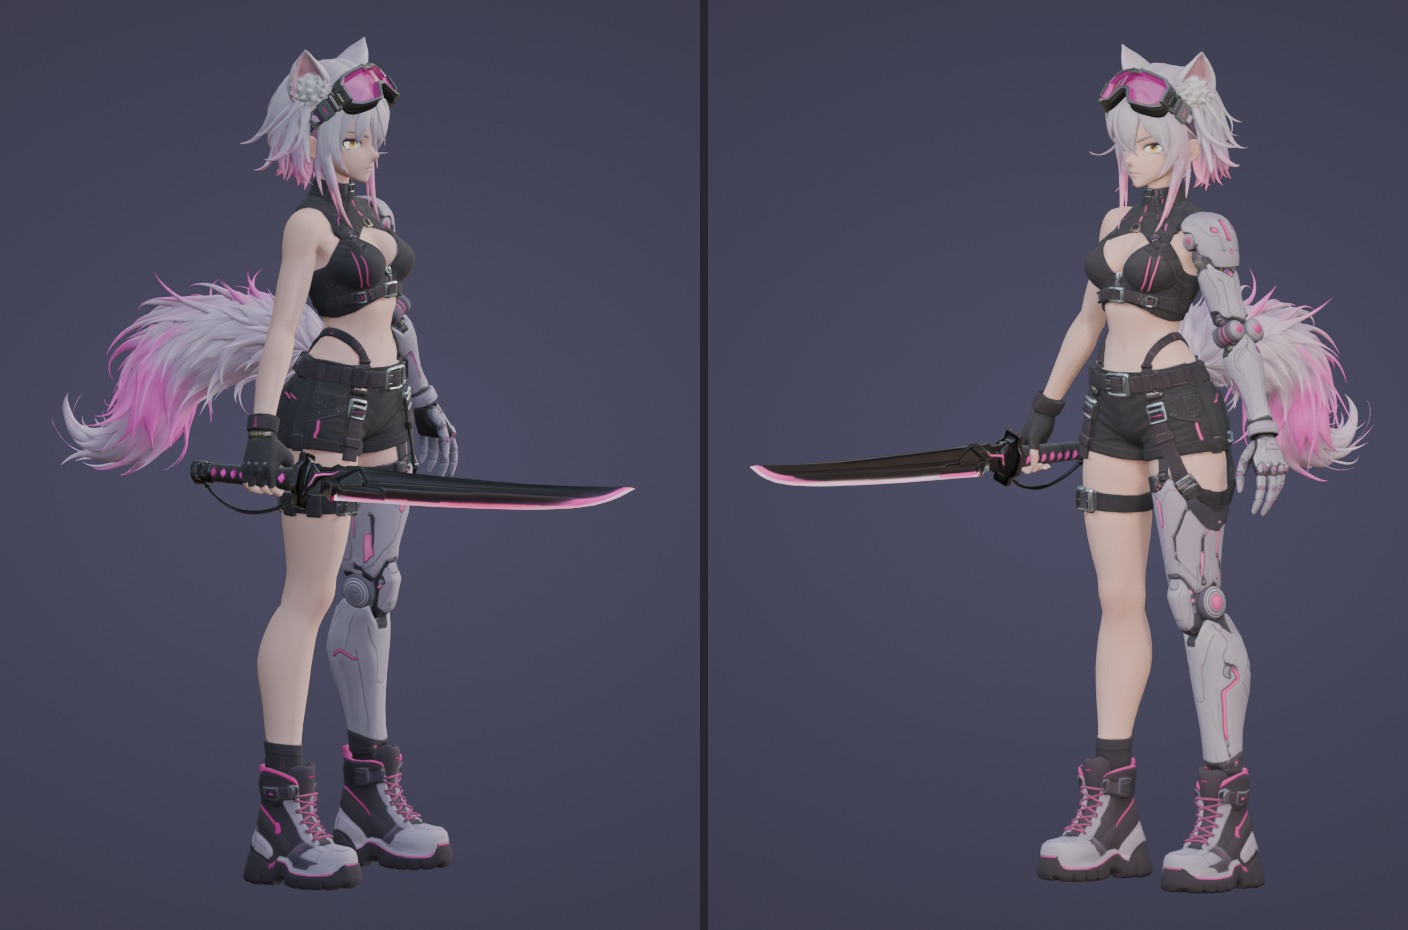
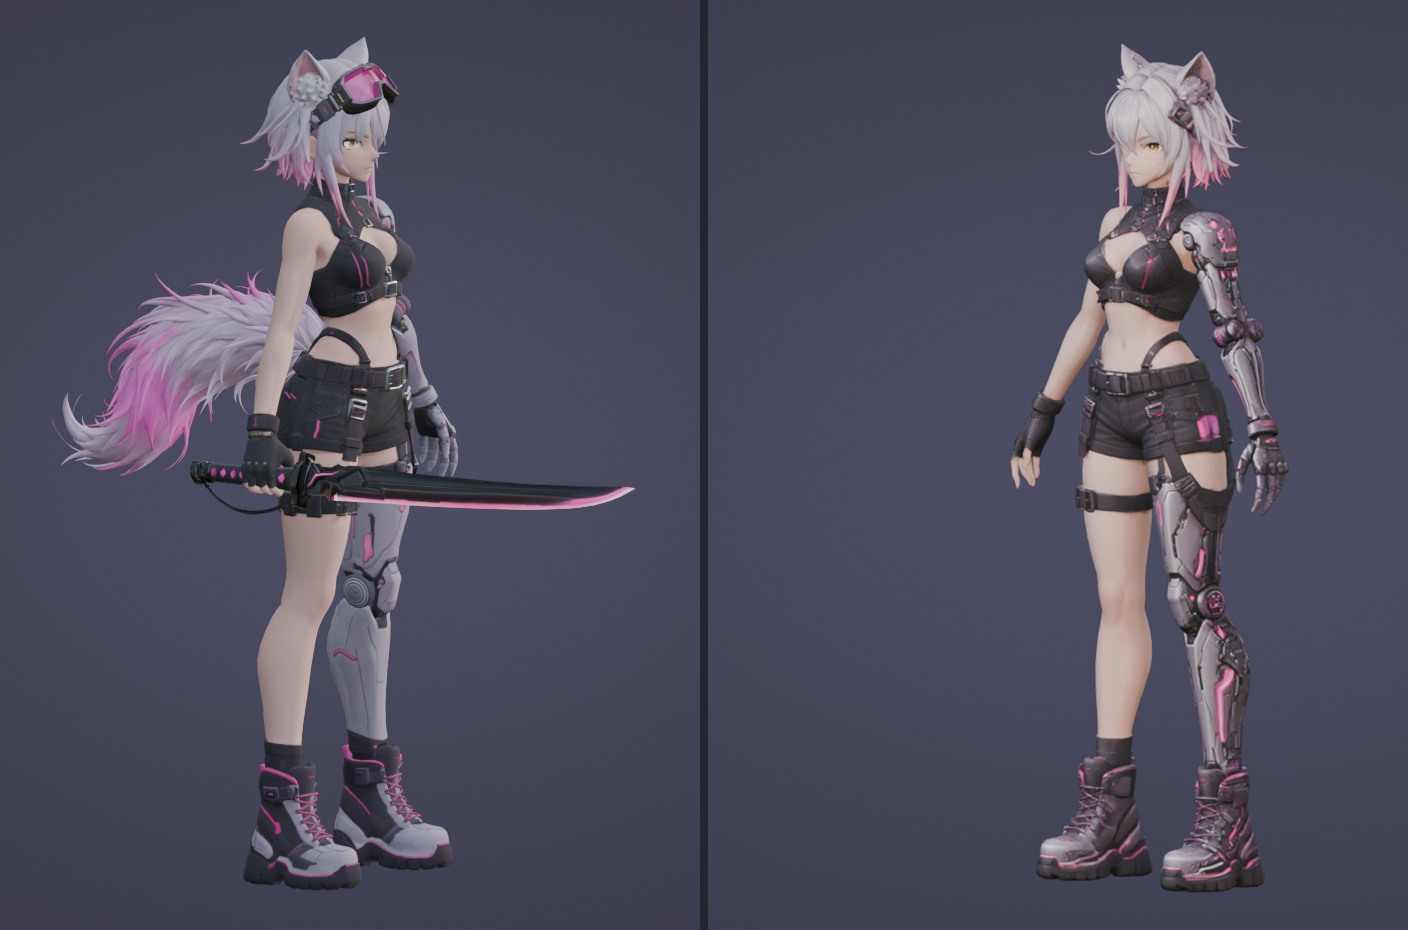
Show the original Tripo model beside the finished Voomi

Changed region(s): [[0.7188, 0.0624, 0.9688, 0.9667], [0.5312, 0.4677, 0.7812, 0.5613]]

diff --git a/README.md b/README.md
@@ -4,9 +4,9 @@ I could point to the cheek I wanted to touch up on Voomi. Finding that cheek on 
 
 **[Read the nine-page illustrated guide (PDF)](./From-Tripo-Smart-UVs-to-Paintable-Textures.pdf)**
 
-![Two full-length Blender views of Voomi wearing rose goggles and holding a pink-edged sword in her gloved right hand](docs/images/voomi-finished.jpg)
+![Full-length Blender views of Voomi facing inward. The finished model wears rose goggles and holds a sword on the left. The original Tripo model stands on the right.](docs/images/voomi-finished.jpg)
 
-*Voomi after the regional texture cleanup and a later accessory-fitting pass.*
+*On the left is Voomi after we cleaned up her textures and fitted the goggles and sword. On the right is an original Tripo model from before those changes.*
 
 ## The same face on two maps
 
